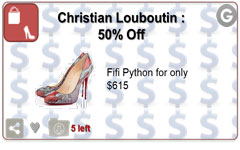
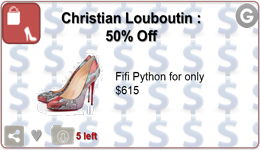
card hover and images 260

diff --git a/index.html b/index.html
@@ -363,7 +363,7 @@
                      <div class="card-back"><h2>Mickey Mouse Tweeted:</h2><p>This is the back of our card!</p></div>
                      </li>
                      <li><div class="card card-article-message"></div><div class="card-back"><h2>Mickey Mouse Tweeted:</h2><p>This is the back of our card!</p></div></li>
-                     <li><div class="card card-article-message2"></div><div class="card-back"><h2>Mickey Mouse Tweeted:</h2><p>This is the back of our card!</p></div></li>
+                     
                      <li><div class="card card-coupon"></div><div class="card-back"><h2>Mickey Mouse Tweeted:</h2><p>This is the back of our card!</p></div></li>
                      <li><div class="card card-user-comment"></div><div class="card-back"><h2>Mickey Mouse Tweeted:</h2><p>This is the back of our card!</p></div></li>
                      <li><div class="card card-tribe"></div><div class="card-back"><h2>Mickey Mouse Tweeted:</h2><p>This is the back of our card!</p></div></li>
@@ -389,7 +389,7 @@
                      <div class="card-back"><h2>Mickey Mouse Tweeted:</h2><p>This is the back of our card!</p></div>
                      </li>
                      <li><div class="card card-article-message"></div><div class="card-back"><h2>Mickey Mouse Tweeted:</h2><p>This is the back of our card!</p></div></li>
-                     <li><div class="card card-article-message2"></div><div class="card-back"><h2>Mickey Mouse Tweeted:</h2><p>This is the back of our card!</p></div></li>
+                     <li><div class="card card-message"></div><div class="card-back"><h2>Mickey Mouse Tweeted:</h2><p>This is the back of our card!</p></div></li>
                      <li><div class="card card-coupon"></div><div class="card-back"><h2>Mickey Mouse Tweeted:</h2><p>This is the back of our card!</p></div></li>
                      <li><div class="card card-user-comment"></div><div class="card-back"><h2>Mickey Mouse Tweeted:</h2><p>This is the back of our card!</p></div></li>
                      <li><div class="card card-tribe"></div><div class="card-back"><h2>Mickey Mouse Tweeted:</h2><p>This is the back of our card!</p></div></li>
@@ -409,7 +409,7 @@
 					 <i class="icon-white icon-asterisk"></i></div></li>
                      <li><div class="card card-poi"></div></li>
                      <li><div class="card card-article-message"></div></li>
-                     <li><div class="card card-article-message2"></div></li>
+                     <li><div class="card card-message"></div></li>
                      <li><div class="card card-coupon"></div></li>
                      <li><div class="card card-user-comment"></div></li>
                      <li><div class="card card-tribe"></div></li>
@@ -561,6 +561,12 @@
 		  $('.frame').removeClass('frame940 frame1200').toggleClass( "frame800", 1000, "easeOutSine" );
 		});
 	</script>
+    
+    <script>
+    	$(window).load(function () { 
+   		 $( '.frame' ).css( "overflow", "visible" );
+});
+    </script>
     
     <script>
 		

diff --git a/css/style.css b/css/style.css
@@ -393,14 +393,27 @@ a {
 
 .card {
 	z-index: 3;
+	-webkit-transition: all .2s ease-in-out;
+}
+
+.card:hover {
+	-webkit-transform: scale(1.25,3);
+	-webkit-transform-origin: bottom left;
+	transform: scale(1.25,3);
+	transform-origin: bottom left;
 }
 
 .card-actions {
-	background: rgba(255,255,255,.7);
+	background: -moz-linear-gradient(top,  rgba(255,255,255,1) 0%, rgba(255,255,255,0) 32%, rgba(255,255,255,0) 100%); /* FF3.6+ */
+	background: -webkit-gradient(linear, left top, left bottom, color-stop(0%,rgba(255,255,255,1)), color-stop(32%,rgba(255,255,255,0)), color-stop(100%,rgba(255,255,255,0))); /* Chrome,Safari4+ */
+	background: -webkit-linear-gradient(top,  rgba(255,255,255,1) 0%,rgba(255,255,255,0) 32%,rgba(255,255,255,0) 100%); /* Chrome10+,Safari5.1+ */
+	background: -o-linear-gradient(top,  rgba(255,255,255,1) 0%,rgba(255,255,255,0) 32%,rgba(255,255,255,0) 100%); /* Opera 11.10+ */
+	background: -ms-linear-gradient(top,  rgba(255,255,255,1) 0%,rgba(255,255,255,0) 32%,rgba(255,255,255,0) 100%); /* IE10+ */
+	background: linear-gradient(to bottom,  rgba(255,255,255,1) 0%,rgba(255,255,255,0) 32%,rgba(255,255,255,0) 100%); /* W3C */
 	z-index: 4;
 	opacity: 0;
 	-webkit-transition: opacity .5s ease-in; 
-	transition: opacity 1s ease-in; 
+	transition: opacity .25s ease-in; 
 }
 
 .card-actions-icons {
@@ -473,7 +486,7 @@ a {
 }  
 
 .card-article p {
-	width: 140px;
+	width: 180px;
   	float: right;
 	border-left: 5px solid #ccc;
 }
@@ -576,31 +589,31 @@ a {
 }
 
 .card-poi {
-	background: url(../img/card-poi.jpg) no-repeat center;
+	background: #fff url(../img/card-poi.png) no-repeat center;
 }
 
 .card-article-message {
-	background: url(../img/card-article-message.jpg) no-repeat center;
+	background: #fff url(../img/card-message.png) no-repeat center;
 }
 
-.card-article-message2 {
-	background: url(../img/card-message-2.jpg) no-repeat center;
+.card-message {
+	background: #fff url(../img/card-message.png) no-repeat center;
 }
 
 .card-coupon {
-	background: url(../img/card-coupon.jpg) no-repeat center;
+	background: #fff url(../img/card-coupon.jpg) no-repeat center;
 }
 
 .card-user-comment {
-	background: url(../img/card-user-comment.jpg) no-repeat center;
+	background: #fff url(../img/card-user-comment.png) no-repeat center;
 }
 
 .card-tribe {
-	background: url(../img/card-tribe.jpg) no-repeat center;
+	background: #fff url(../img/card-tribe.png) no-repeat center;
 }
 
 .card-event {
-	background: url(../img/card-event.jpg) no-repeat center;
+	background: #fff url(../img/card-event.jpg) no-repeat center;
 }
 
 .card-scroll-cont button, .card-scroll-cont button { background: transparent; border: 0; color: #000; opacity: .5; font-weight: bold;}
